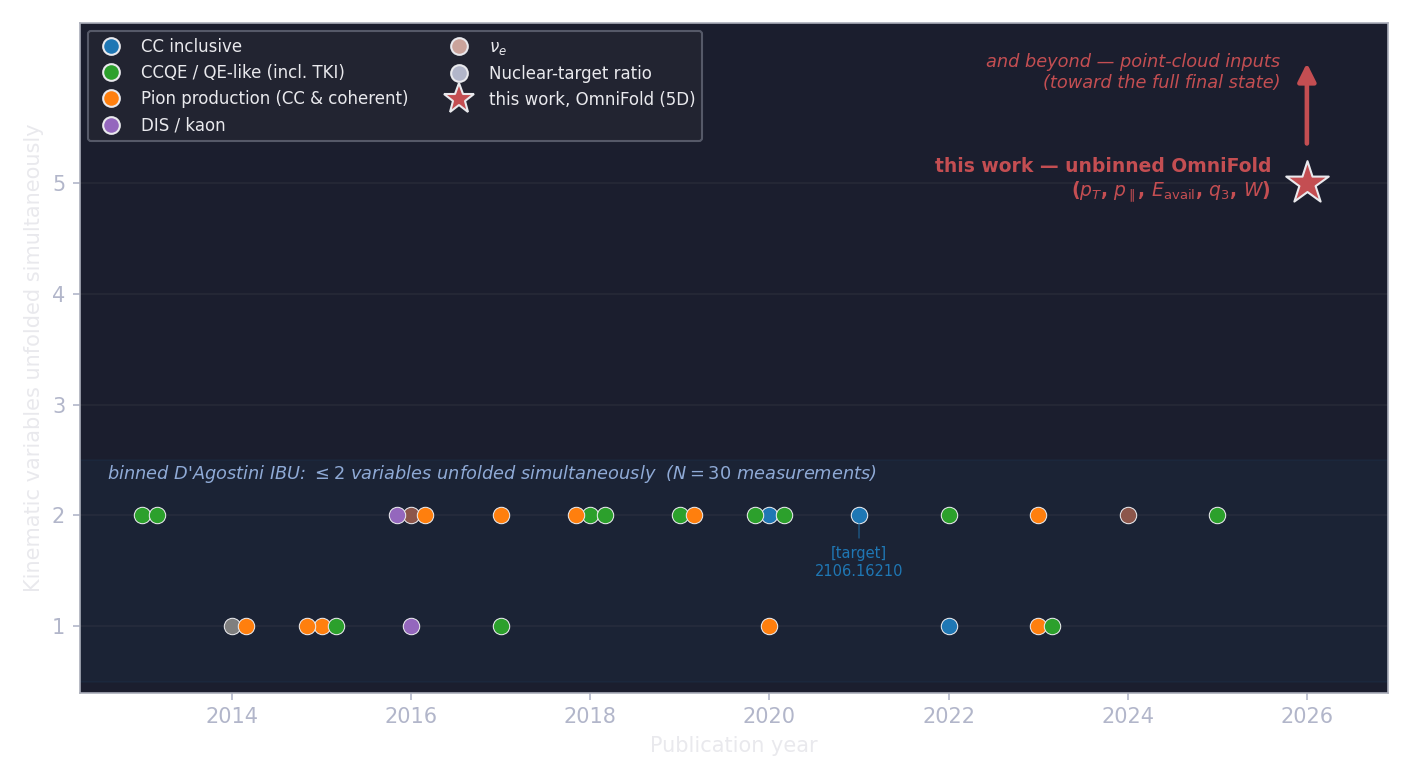
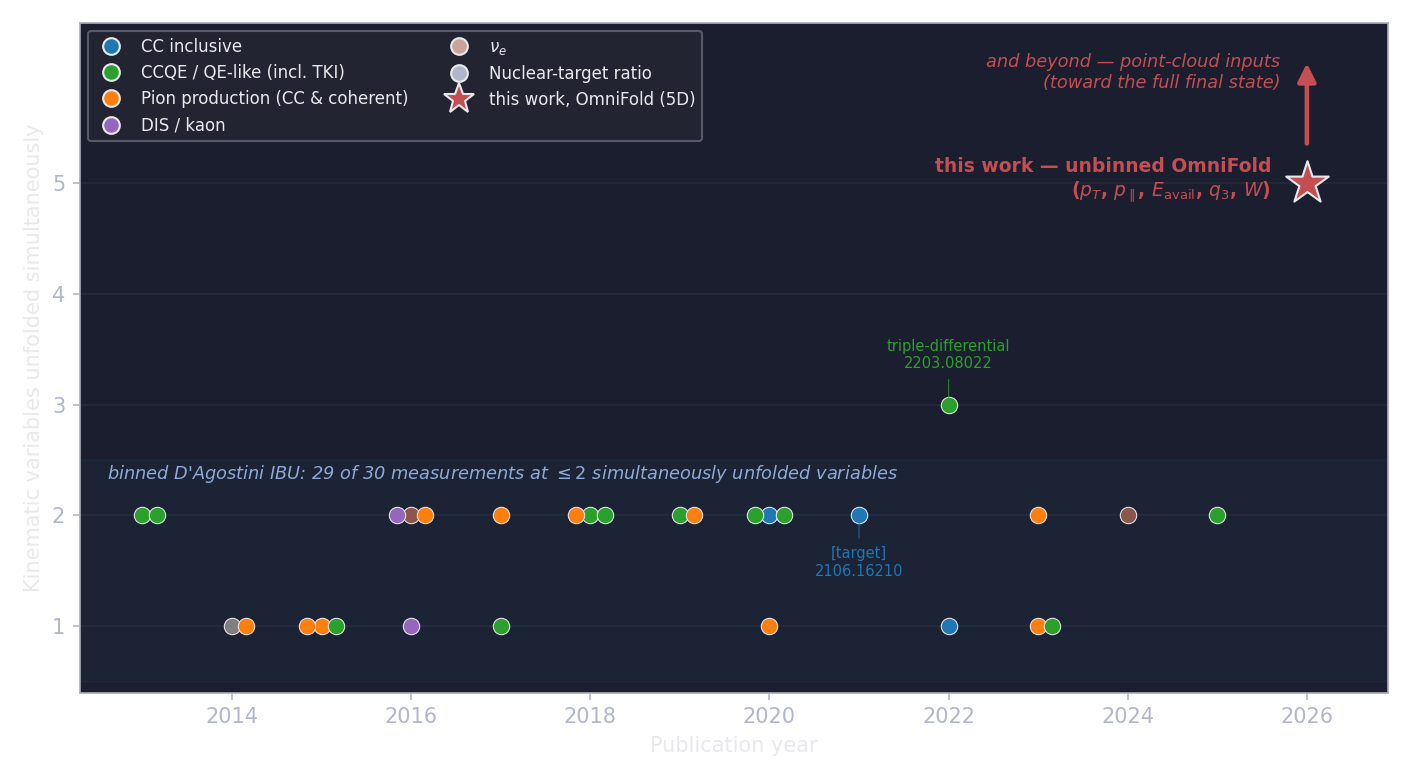
talk+note: reclassify 2203.08022 as triple-differential in the landscape survey
The 2022 QE-like proton+lepton measurement (d3sigma/dpt dp|| dSigmaT_p,
10-iter RooUnfold IBU) was misclassified as 2D in the survey figure, the
note's appendix table, the primer, and slide 4 ("one or two observables").
Now: 29 of 30 at <=2 variables, one triple-differential, labeled on the
figure. Also align slide 18/19 captions and notes with the gated B7/B9
uncertainty status (quarantined PET total, selection-complete covariance).

Changed region(s): [[0.2184, 0.5846, 0.6241, 0.6154], [0.6241, 0.4308, 0.7177, 0.5231], [0.6553, 0.6462, 0.6865, 0.6769]]

diff --git a/docs/jul-16-presentation/design-talk/talk/index.html b/docs/jul-16-presentation/design-talk/talk/index.html
@@ -289,13 +289,13 @@ deck-stage[no-page-furniture] .page-foot, deck-stage[no-page-furniture] .page-he
     <div class="page-foot" aria-hidden="true"></div>
   </section>
 
-  <section class="slide figslide" data-label="Where MINERvA measurements sit" data-speaker-notes="The survey contains thirty published MINERvA differential cross sections. They use binned D'Agostini iterative Bayesian unfolding, abbreviated IBU, and report one or two simultaneous observables. The red point marks the five-variable result shown later; the arrow marks point-cloud inputs as outlook.">
+  <section class="slide figslide" data-label="Where MINERvA measurements sit" data-speaker-notes="The survey contains thirty published MINERvA differential cross sections. They use binned D'Agostini iterative Bayesian unfolding, abbreviated IBU. Twenty-nine report one or two simultaneous observables; one QE-like measurement (2022) is triple-differential — muon transverse and longitudinal momentum plus summed proton kinetic energy. The red star marks the five-variable result shown later; the arrow marks point-cloud inputs as outlook.">
     <div class="kicker"><span>The problem</span></div>
-    <h2 class="slide-title">Thirty measurements, focused on one or two observables</h2>
+    <h2 class="slide-title">Twenty-nine of thirty measurements at one or two observables</h2>
     <div class="figwrap rise">
-      <figure class="fig-panel dark"><img src="./figures-dark/minerva_unfolding_landscape.png" alt="Published MINERvA measurements arranged by number of simultaneously unfolded kinematic variables and year — all at one or two dimensions; this work at five, with an arrow beyond to point-cloud inputs."></figure>
+      <figure class="fig-panel dark"><img src="./figures-dark/minerva_unfolding_landscape.png" alt="Published MINERvA measurements arranged by number of simultaneously unfolded kinematic variables and year — 29 at one or two dimensions, one triple-differential; this work at five, with an arrow beyond to point-cloud inputs."></figure>
     </div>
-    <p class="fig-caption"><strong>The 30 published measurements surveyed here use binned D'Agostini iterative Bayesian unfolding (IBU) with one or two simultaneous observables.</strong> This work unfolds five variables simultaneously; point-cloud inputs are an outlook study.</p>
+    <p class="fig-caption"><strong>The 30 published measurements surveyed here use binned D'Agostini iterative Bayesian unfolding (IBU); 29 report one or two simultaneous observables, one is triple-differential (QE-like p<sub>T</sub>, p<sub>∥</sub>, ΣT<sub>p</sub>, 2022).</strong> This work unfolds five variables simultaneously, unbinned; point-cloud inputs are an outlook study.</p>
     <div class="page-foot" aria-hidden="true"></div>
   </section>
 

diff --git a/3d-unfolding/plot_minerva_landscape.py b/3d-unfolding/plot_minerva_landscape.py
@@ -9,9 +9,10 @@ reconstruction, generator-tuning, and total-only (non-differential) entries are
 excluded. 'dims' = number of kinematic variables unfolded *simultaneously*
 (a double-differential dsigma/dx dy = 2), classified from each analysis's
 headline differential result. Every prior MINERvA measurement uses binned
-D'Agostini IBU and reaches at most 2 variables; this work's unbinned OmniFold
-reaches 5 (pT, p||, Eavail, q3, W) — shown as a single marker at the headline
-dimensionality.
+D'Agostini IBU; 29 of 30 reach at most 2 variables, and one — the 2022 QE-like
+proton+lepton measurement (2203.08022, d3sigma/dpt dp|| dSigmaT_p) — is
+triple-differential. This work's unbinned OmniFold reaches 5 (pT, p||, Eavail,
+q3, W) — shown as a single marker at the headline dimensionality.
 """
 
 import sys as _sys, pathlib as _pathlib
@@ -50,7 +51,7 @@ M = [
     (2020, 2, "qe",    "1912.09890"),
     (2020, 1, "pion",  "2002.05812"),
     (2021, 2, "incl",  "2106.16210"),  # the target
-    (2022, 2, "qe",    "2203.08022"),
+    (2022, 3, "qe",    "2203.08022"),  # triple-differential pT, p||, SumT_p
     (2022, 1, "incl",  "2110.13372"),
     (2023, 2, "pion",  "2209.07852"),
     (2023, 1, "pion",  "2210.01285"),  # coherent
@@ -70,8 +71,8 @@ chan = {
 
 fig, ax = plt.subplots(figsize=(9.4, 5.2))
 ax.axhspan(0.5, 2.5, color="#1f77b4", alpha=0.06, zorder=0)
-ax.text(2012.6, 2.47, "binned D'Agostini IBU: $\\leq 2$ variables unfolded "
-        "simultaneously  ($N=30$ measurements)", fontsize=8.5, va="top",
+ax.text(2012.6, 2.47, "binned D'Agostini IBU: 29 of 30 measurements at "
+        "$\\leq 2$ simultaneously unfolded variables", fontsize=8.5, va="top",
         ha="left", color="#33558b", style="italic")
 
 # jitter x for collisions at the same (year, dim)
@@ -99,10 +100,14 @@ ax.annotate("", xy=(2026, 6.12), xytext=(2026, 5.32),
 ax.annotate("and beyond — point-cloud inputs\n(toward the full final state)",
             (2026, 6.0), (2025.7, 6.0), fontsize=8.5, ha="right", va="center",
             color="#C44E52", style="italic")
-# below the point (empty y=1..2 gap) so it clears the "N=30 measurements" banner
+# below the point (empty y=1..2 gap) so it clears the shading banner
 ax.annotate("[target]\n2106.16210", (2021, 2), (2021, 1.72), fontsize=7.0,
             ha="center", va="top", color="#1f77b4",
             arrowprops=dict(arrowstyle="-", color="#1f77b4", lw=0.6, alpha=0.7))
+# the lone binned triple-differential (QE-like p_t, p_||, Sum T_p; 10-iter IBU)
+ax.annotate("triple-differential\n2203.08022", (2022, 3), (2022, 3.30),
+            fontsize=7.0, ha="center", va="bottom", color="#2ca02c",
+            arrowprops=dict(arrowstyle="-", color="#2ca02c", lw=0.6, alpha=0.7))
 
 ax.set_xlabel("Publication year")
 ax.set_ylabel("Kinematic variables unfolded simultaneously")

diff --git a/docs/analysis-note/primer_body.tex b/docs/analysis-note/primer_body.tex
@@ -31,7 +31,8 @@ that records, for every bin of true momentum, how events leak into neighboring
 bins of measured momentum, and then tries to invert that leakage. It works, but
 it has a crippling limitation: each new quantity you want to measure multiplies
 the number of bins, and the table quickly becomes too large and too sparse to be
-useful. In practice this caps the method at one or two quantities at a time.
+useful. In practice this caps the method at two --- exceptionally three ---
+quantities at a time.
 
 This analysis uses a different, machine-learning method called \textbf{OmniFold}.
 Instead of a table of bins, it trains a computer to compare the real data with a

diff --git a/docs/analysis-note/app_landscape.tex b/docs/analysis-note/app_landscape.tex
@@ -48,7 +48,7 @@ headline result unfolds simultaneously, and the reference.
   2020 & QE; high-statistics QE-like              & 2 & \cite{MINERvA:2020qehs} \\
   2020 & $\pi$; CC $\pi^0$ nuclear effects        & 1 & \cite{MINERvA:2020pi0} \\
   2021 & incl.; CC-incl $\langle E_\nu\rangle\!\sim\!6$ GeV $\pT,\pPar$ \textbf{(target)} & 2 & \cite{MINERvA:2021owq} \\
-  2022 & QE; QE-like muon \& proton kinematics    & 2 & \cite{MINERvA:2022qe} \\
+  2022 & QE; QE-like $\pT,\pPar,\Sigma T_p$ (triple-diff.) & 3 & \cite{MINERvA:2022qe} \\
   2022 & incl.; CC-incl low momentum transfer     & 1 & \cite{MINERvA:2022incl} \\
   2023 & $\pi$; CC $1\pi^+$ (multi-target)        & 2 & \cite{MINERvA:2023ccpi} \\
   2023 & $\pi$; coherent $\pi^+$ (multi-target)   & 1 & \cite{MINERvA:2023coh} \\

diff --git a/docs/jul-16-presentation/TALK_SCRIPT_20MIN.md b/docs/jul-16-presentation/TALK_SCRIPT_20MIN.md
@@ -60,8 +60,11 @@ problem comes from bin occupancy, not from the event count itself.
 ## 4 · Thirty measurements — 2:30 → 3:15
 
 This survey contains thirty published MINERvA differential cross sections.
-They use binned D'Agostini iterative Bayesian unfolding — IBU for short —
-and report one or two simultaneous observables.
+They use binned D'Agostini iterative Bayesian unfolding — IBU for short.
+Twenty-nine report one or two simultaneous observables; the one
+triple-differential measurement, the 2022 QE-like result in muon pT,
+p-parallel, and summed proton kinetic energy, shows what a binned 3D
+campaign takes.
 
 This work is the red star: five observables unfolded simultaneously — muon
 pT and p-parallel, E-available, q3, and W. The arrow above it indicates the